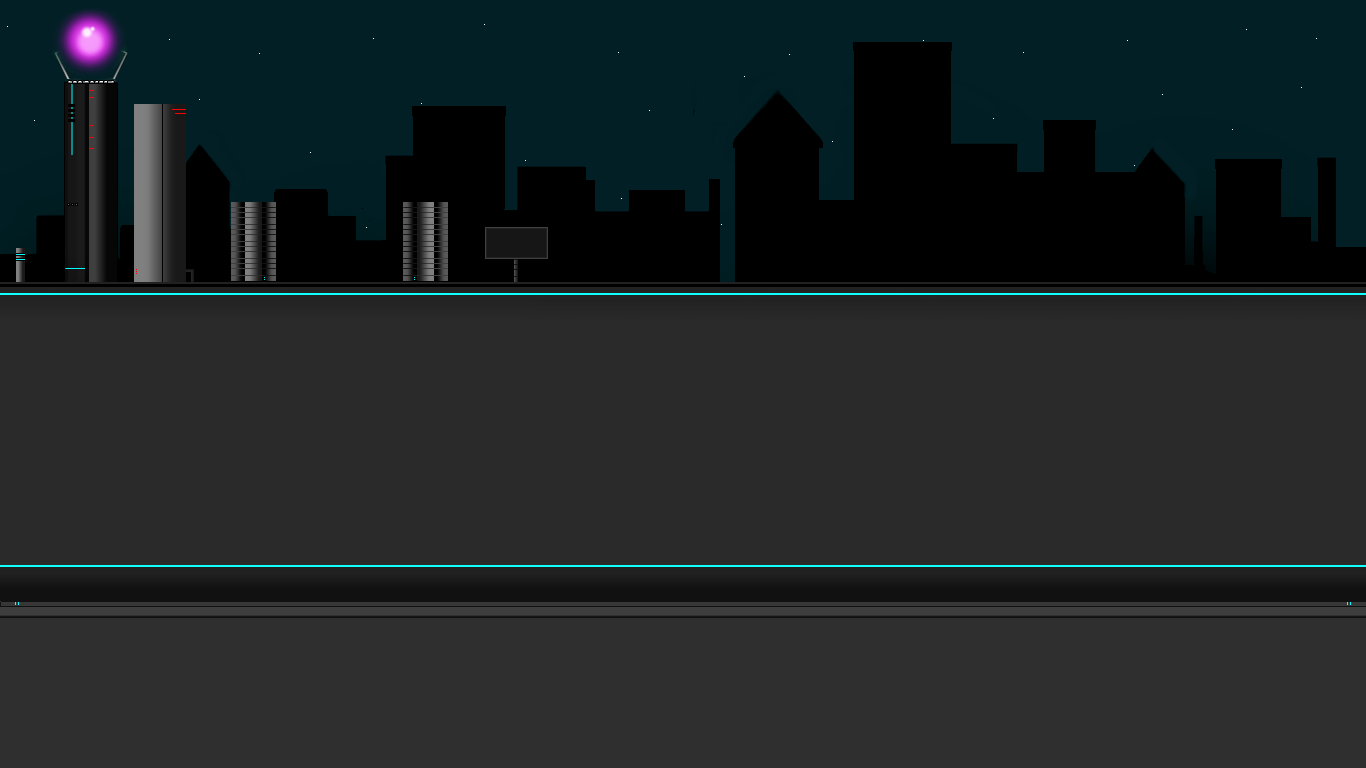
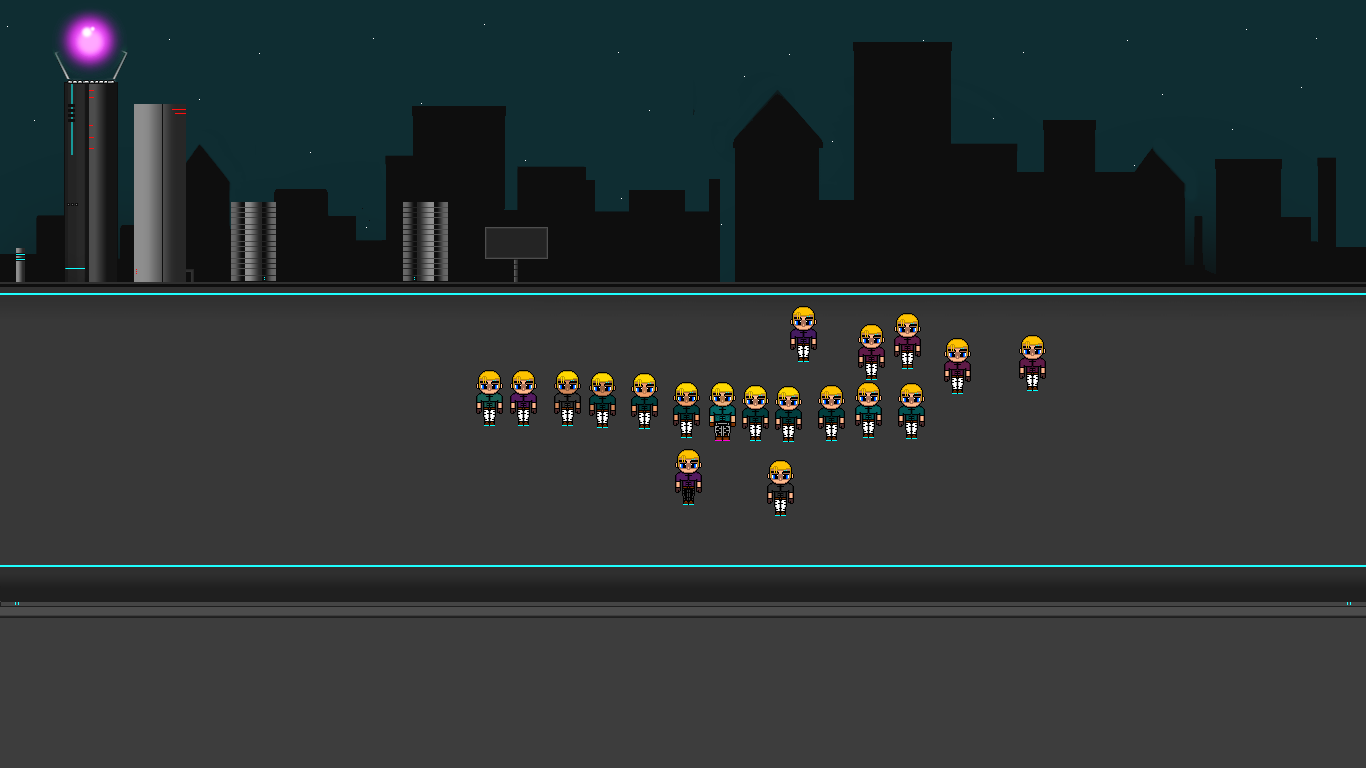
Added my project

Changed region(s): [[0.3382, 0.4062, 0.7072, 0.6875], [0.7379, 0.4375, 0.7687, 0.5]]

diff --git a/resources/js/modules/scenes/scene1.js b/resources/js/modules/scenes/scene1.js
@@ -50,7 +50,7 @@ export class Acceuil extends Phaser.Scene {
         this.load.image('fond', '../img/Map test.png') // import fond de scene
         this.load.image('particule', '../img/particulerouge.png'); //import particule
         this.load.spritesheet("personnage", "../img/spriteHomme2.png", { frameWidth: 46, frameHeight: 63 }); // import sprite personnage
-        this.load.spritesheet("torche", "../img/spritetorche.png", { frameWidth: 46, frameHeight: 63 });
+        this.load.spritesheet("torche", "../img/spritebitte.png", { frameWidth: 46, frameHeight: 63 });
     }
     //TODO ------- CREATE -----
 
@@ -76,7 +76,7 @@ export class Acceuil extends Phaser.Scene {
 
         // creation personnage
         this.torche = this.physics.add.sprite(500, 246, "torche")
-        this.torche2 = this.physics.add.sprite(500, 246, "torche")
+
         /*  personnage.alpha = 1; // changer opacité du personnage */
 
 
@@ -91,7 +91,7 @@ export class Acceuil extends Phaser.Scene {
         logo.setCollideWorldBounds(true);
 
 
-        emitter.startFollow(personnage);
+        emitter.startFollow(logo);
 
         // creation de styles texte 
         stylemessageinfo = { font: "15px impact", fill: "red", align: "center", display: "flex", justifyContent: "center", textShadow: "4px 5px 16px green", fontWeight: 'bold', stroke: "#000000", strokeThickness: 1.5 } // syle message info
@@ -107,7 +107,7 @@ export class Acceuil extends Phaser.Scene {
             } // fonction lors de la colision
         );
         // todo ----- ANIMATIONS Sprite
-
+        // todo -----  Personnage
         // marche bas
         this.anims.create({
             key: "bas",
@@ -148,6 +148,18 @@ export class Acceuil extends Phaser.Scene {
             repeat: -1
 
         });
+        // todo -----  bitte
+        this.anims.create({
+            key: "bitte",
+            frames: this.anims.generateFrameNumbers("torche", {
+                frames: [0, 1, 2, 1, 0]
+            }),
+            frameRate: 5,
+            repeat: -1
+
+        });
+        this.torche.play("bitte");
+
 
         // todo ----- ANIMATIONS Global
 
@@ -288,6 +300,26 @@ export class Acceuil extends Phaser.Scene {
         if (touche.Q.isUp && touche.S.isUp && touche.D.isUp && touche.Z.isUp) {
             personnage.setVelocity(0, 0);
             personnage.stop("gauche");
+        }
+        // diagonale haut/droite
+        if (touche.Z.isDown && touche.D.isDown) {
+            personnage.setVelocity(80, -80);
+            personnage.play("haut");
+        }
+        // diagonale bas/droite
+        if (touche.S.isDown && touche.D.isDown) {
+            personnage.setVelocity(80, 80);
+            personnage.play("bas");
+        }
+        // diagonale haut/GAUCHE
+        if (touche.Z.isDown && touche.Q.isDown) {
+            personnage.setVelocity(-80, -80);
+            personnage.play("haut");
+        }
+        // diagonale bas/GAUCHE
+        if (touche.S.isDown && touche.Q.isDown) {
+            personnage.setVelocity(-80, 80);
+            personnage.play("bas");
         }
 
         messageinfocombatjoueur.setPosition(personnage.x - 2.2, personnage.y - 49);
